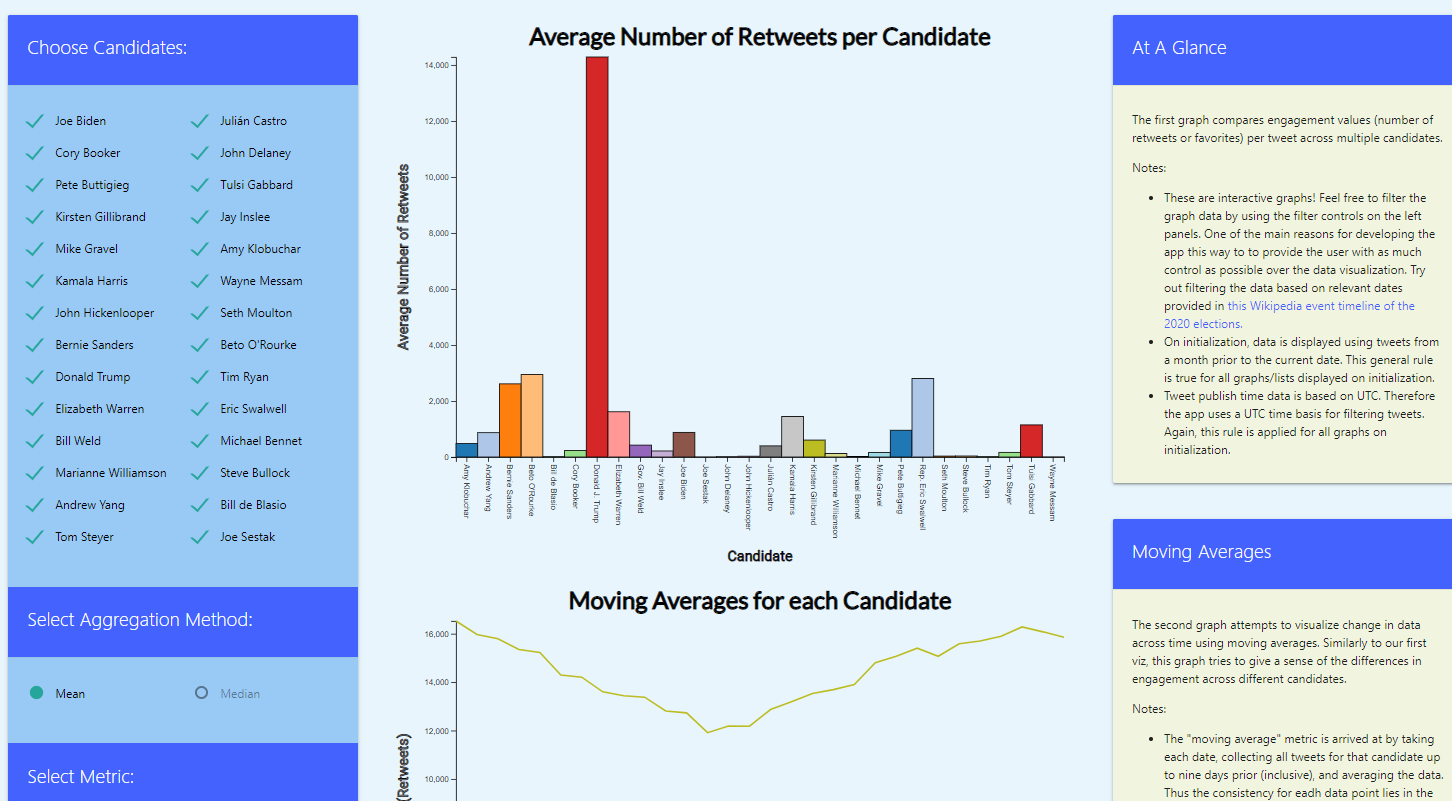
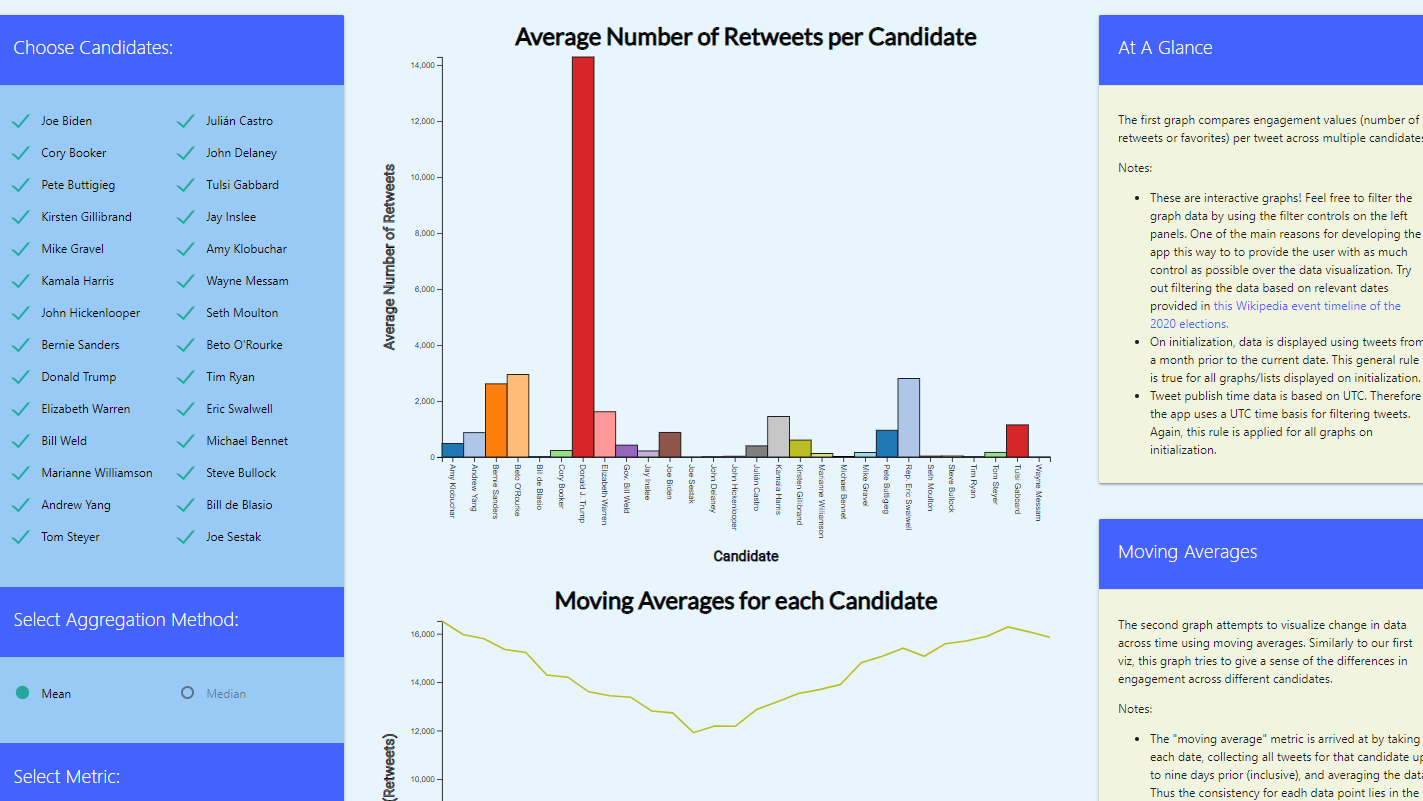
resized images to have same aspect ratio, adjusted image css, added some responsiveness to project section

diff --git a/src/App.css b/src/App.css
@@ -1,36 +1,3 @@
-/* .App {
-  text-align: center;
-}
-
-.App-logo {
-  animation: App-logo-spin infinite 20s linear;
-  height: 40vmin;
-  pointer-events: none;
-}
-
-.App-header {
-  background-color: #282c34;
-  min-height: 100vh;
-  display: flex;
-  flex-direction: column;
-  align-items: center;
-  justify-content: center;
-  font-size: calc(10px + 2vmin);
-  color: white;
-}
-
-.App-link {
-  color: #61dafb;
-}
-
-@keyframes App-logo-spin {
-  from {
-    transform: rotate(0deg);
-  }
-  to {
-    transform: rotate(360deg);
-  }
-} */
 :root {
   --lighter-turquoise: hsl(240deg, 100%, 96%);
 }
@@ -1263,30 +1230,27 @@ a {
   font-size: 18px;
 }
 
-/* .project-image {
-  height: 100px;
-  width: 100px;
-  background-size: cover;
-  background-position: top;
-  display: block;
-} */
-
 .project-images-container {
   height: 250px;
   width: 100%;
 }
 
 .project-image {
-  /* width: auto;
-  height: auto; */
-  /* max-width: 400px;
-  max-height: 400px; */
   margin-right: 50px;
   padding-bottom: 50px;
-  /* float: left; */
-  max-width: 27%;
-  height: 100%;
+  max-width: 100%;
+  max-height: 100%;
+
 }
+
+/* .profile-picture {
+  border-color: #41aaa8;
+  border-width: 5px;
+  border-style: solid;
+  border-radius: 10%;
+  float: left;
+  margin-right: 30px;
+} */
 
 .url-link {
   color: hsl(220deg, 100%, 50%);
@@ -1342,6 +1306,29 @@ a {
     color: hsl(100deg, 0%, 26%);
   }
 
+  .project-title {
+    margin-bottom: 0px;
+    color: hsl(100deg, 0%, 35%);
+    font-size: 27px;
+  }
+  
+  .project-sub-header {
+    margin-top: 0px;
+    height: 20px;
+    font-style: italic;
+    color: hsl(100deg, 0%, 30%);
+    font-size: 17px;
+  }
+  
+  .url-section {
+    font-size: 17px;
+    margin-top: 10px;
+  }
+  
+  .project-description {
+    font-size: 17px;
+  }
+
 }
 
 @media (max-width: 1475px) and (min-width: 1250px) {
@@ -1357,6 +1344,29 @@ a {
     padding-top: 7px;
     font-size: 18px;
     color: hsl(100deg, 0%, 26%);
+  }
+
+  .project-title {
+    margin-bottom: 0px;
+    color: hsl(100deg, 0%, 35%);
+    font-size: 26px;
+  }
+  
+  .project-sub-header {
+    margin-top: 0px;
+    height: 20px;
+    font-style: italic;
+    color: hsl(100deg, 0%, 30%);
+    font-size: 17px;
+  }
+  
+  .url-section {
+    font-size: 17px;
+    margin-top: 10px;
+  }
+  
+  .project-description {
+    font-size: 17px;
   }
 }
 
@@ -1374,6 +1384,29 @@ a {
     font-size: 17px;
     color: hsl(100deg, 0%, 26%);
   }
+
+  .project-title {
+    margin-bottom: 0px;
+    color: hsl(100deg, 0%, 35%);
+    font-size: 25px;
+  }
+  
+  .project-sub-header {
+    margin-top: 0px;
+    height: 20px;
+    font-style: italic;
+    color: hsl(100deg, 0%, 30%);
+    font-size: 16px;
+  }
+  
+  .url-section {
+    font-size: 16px;
+    margin-top: 10px;
+  }
+  
+  .project-description {
+    font-size: 16px;
+  }
 }
 
 @media (max-width: 999px) and (min-width: 775px) {
@@ -1389,6 +1422,29 @@ a {
     padding-top: 7px;
     font-size: 16px;
     color: hsl(100deg, 0%, 26%);
+  }
+
+  .project-title {
+    margin-bottom: 0px;
+    color: hsl(100deg, 0%, 35%);
+    font-size: 24px;
+  }
+  
+  .project-sub-header {
+    margin-top: 0px;
+    height: 20px;
+    font-style: italic;
+    color: hsl(100deg, 0%, 30%);
+    font-size: 15px;
+  }
+  
+  .url-section {
+    font-size: 15px;
+    margin-top: 10px;
+  }
+  
+  .project-description {
+    font-size: 15px;
   }
 }
 
@@ -1406,6 +1462,29 @@ a {
     font-size: 15px;
     color: hsl(100deg, 0%, 26%);
   }
+
+  .project-title {
+    margin-bottom: 0px;
+    color: hsl(100deg, 0%, 35%);
+    font-size: 23px;
+  }
+  
+  .project-sub-header {
+    margin-top: 0px;
+    height: 20px;
+    font-style: italic;
+    color: hsl(100deg, 0%, 30%);
+    font-size: 14px;
+  }
+  
+  .url-section {
+    font-size: 14px;
+    margin-top: 10px;
+  }
+  
+  .project-description {
+    font-size: 14px;
+  }
 }
 
 @media (max-width: 689px) and (min-width: 600px) {
@@ -1422,6 +1501,29 @@ a {
     font-size: 14px;
     color: hsl(100deg, 0%, 26%);
   }
+
+  .project-title {
+    margin-bottom: 0px;
+    color: hsl(100deg, 0%, 35%);
+    font-size: 23px;
+  }
+  
+  .project-sub-header {
+    margin-top: 0px;
+    height: 20px;
+    font-style: italic;
+    color: hsl(100deg, 0%, 30%);
+    font-size: 14px;
+  }
+  
+  .url-section {
+    font-size: 14px;
+    margin-top: 10px;
+  }
+  
+  .project-description {
+    font-size: 14px;
+  }
 }
 
 @media (max-width: 599px) and (min-width: 0px) {
@@ -1437,5 +1539,28 @@ a {
     padding-top: 7px;
     font-size: 13px;
     color: hsl(100deg, 0%, 26%);
+  }
+
+  .project-title {
+    margin-bottom: 0px;
+    color: hsl(100deg, 0%, 35%);
+    font-size: 23px;
+  }
+  
+  .project-sub-header {
+    margin-top: 0px;
+    height: 20px;
+    font-style: italic;
+    color: hsl(100deg, 0%, 30%);
+    font-size: 14px;
+  }
+  
+  .url-section {
+    font-size: 14px;
+    margin-top: 10px;
+  }
+  
+  .project-description {
+    font-size: 14px;
   }
 }

diff --git a/src/images.js b/src/images.js
@@ -1,19 +1,19 @@
 const images = [
     {
         id: 1,
-        src: require('./assets/tweetocracy/tweetocracy-1.PNG'),
+        src: require('./assets/tweetocracy/tweetocracy-1.png'),
         projectIndex: 0,
         alt: "tweetocracy-1"
     },
     {
         id: 2,
-        src: require('./assets/tweetocracy/tweetocracy-2.PNG'),
+        src: require('./assets/tweetocracy/tweetocracy-2.png'),
         projectIndex: 0,
         alt: "tweetocracy-2"
     },
     {
         id: 3,
-        src: require('./assets/tweetocracy/tweetocracy-3.PNG'),
+        src: require('./assets/tweetocracy/tweetocracy-3.png'),
         projectIndex: 0,
         alt: "tweetocracy-3"
     }

diff --git a/src/App.js b/src/App.js
@@ -6,7 +6,7 @@ import projects from './projects.json';
 
 import profile from './profile.jpg';
 import images from './images.js';
-import projectImg from './assets/tweetocracy/tweetocracy-1.PNG';
+// import projectImg from './assets/tweetocracy/tweetocracy-1.PNG';
 
 // Declare CSS inline styling variables
 var contactStyle = {
